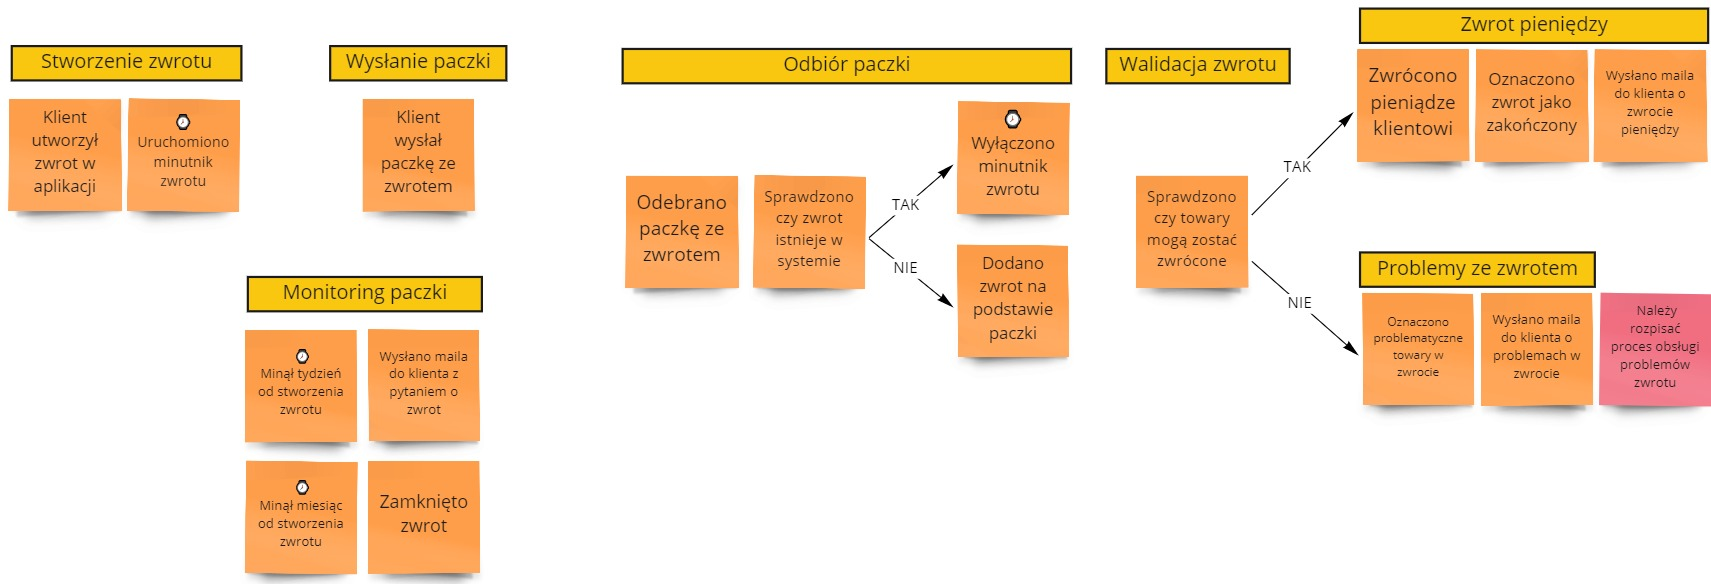
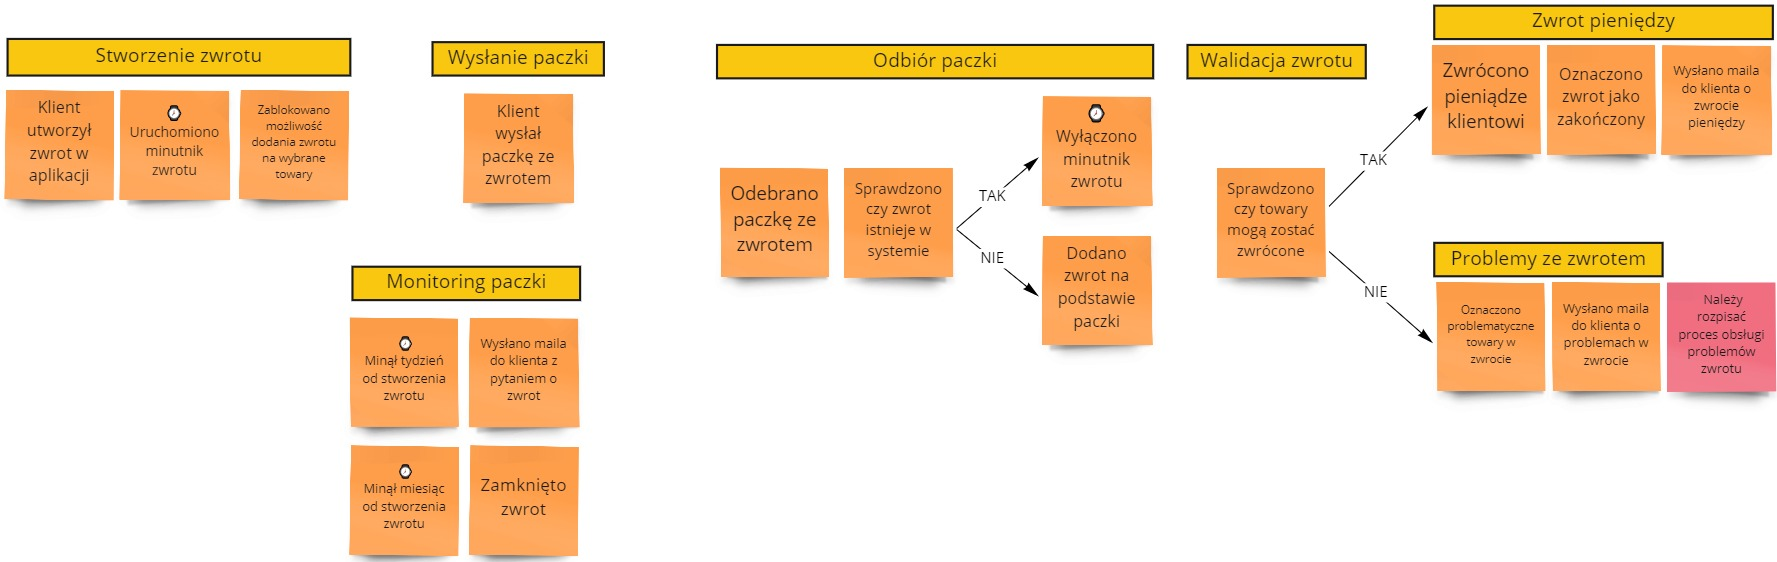
Finish post about Event Storming and questions

Changed region(s): [[0.0, 0.0, 1.0, 1.0]]

diff --git a/page/content/pl/posts/2022/2022-07/event-storming-czyli-sztuka-zadawania-pytan/index.md b/page/content/pl/posts/2022/2022-07/event-storming-czyli-sztuka-zadawania-pytan/index.md
@@ -5,14 +5,13 @@ url: '/2022/07/09/event-storming-czyli-sztuka-zadawania-pytan'
 images: ['2022/07/09/event-storming-czyli-sztuka-zadawania-pytan/main.jpg']
 description: "Event Storming to świetna technika do strukturyzowania procesów biznesowych. Jednak wymaga odpowiedniego zadawania pytań, aby osiągnąć właściwy rezultat."
 category: 'Event Storming'
-draft: true
 ---
 
 Event Storming kojarzy się przede wszystkim z pomarańczowymi karteczkami ze zdarzeniami. Rzucamy je na tablicę, aby pokazać określony proces biznesowy. Następnie układamy je wedle konkretnego schematu. Określamy kilka problemów i gotowe. Nie do końca...
 
 Taki proces nie wytrzyma zderzenia z rzeczywistością, ponieważ sesja nie pomogła nam dojść do sedna problemu. A to dlatego, że podeszliśmy do tej techniki zbyt płytko.
 
-**Jeśli podczas warsztatu nie będziemy zadawać pytań pogłębiających to stracimy 80% zysku z wykorzystywania Event Stormingu**. Tylko wtedy ta technika jest bardziej skuteczna niż zwykła analiza wykonana w Wordzie, czy na makietach. Dopiero odpowiednia wizualizacja + pytania na jej podstawie dają nam właściwy poziom analizy.
+**Jeśli podczas warsztatu nie będziemy zadawać pytań pogłębiających, to stracimy 80% zysku z wykorzystywania Event Stormingu**. Tylko wtedy ta technika jest bardziej skuteczna, niż zwykła analiza wykonana w Wordzie, czy na makietach. Dopiero odpowiednia wizualizacja + pytania na jej podstawie dają nam właściwy poziom analizy.
 
 Pokażmy sobie ten problem na podstawie zwrotu produktów do sklepu (np. do Zalando).
 
@@ -20,17 +19,17 @@ Pokażmy sobie ten problem na podstawie zwrotu produktów do sklepu (np. do Zala
 
 Załóżmy, że pracujemy z Działem Zwrotów. Po analizie z pracownikami tego działu wyszedł nam poniższy proces:
 
-[![](es-pytania-1.jpg)](es-pytania-1.jpg)
+[![](es-pytania-0.jpg)](es-pytania-0.jpg)
 
-Proces wydaje się kompletny - od utworzenia zwrotu do wysłania maila z informacją, że zwrot pieniedzy miał miejsce. 
+Proces wydaje się kompletny - od utworzenia zwrotu do wysłania maila z informacją, że zwrot pieniędzy miał miejsce.
 
-Czy powinniśmy być zadowoleni? Czy sądzicie, że jest OK?
+Czy powinniśmy być zadowoleni? Czy jest OK?
 
 [![](pulp-fiction.jpg)](pulp-fiction.jpg)
 
 (Nie mogłem się powstrzymać - ten fragment z Pulp Fiction zbyt dobrze tutaj pasował 😉) 
 
-Wszystko wydaje się proste i takie jest - dlatego, że zbyt płytko weszliśmy w proces. Jakby pójść z czymś takim na produkcję to mamy wręcz pewność, że nasz system upadnie pod atakiem rzeczywistości.
+Wszystko wydaje się proste i takie jest - dlatego, że zbyt płytko weszliśmy w proces. Jakby pójść z czymś takim na produkcję, to mamy wręcz pewność, że nasz system upadnie pod atakiem rzeczywistości.
 
 Moja reguła kciuka w tym przypadku to:
 
@@ -45,20 +44,20 @@ A więc przejdźmy po najbardziej popularnych pytaniach, które warto zadać w t
 To jest pytanie, które zadaję przechodząc przez proces po każdym zdarzeniu. W przypadku powyższego procesu możemy zapytać:
 
 > A co, jeśli klient stworzył zwrot, ale nie wysłał paczki?
-> 
+>
 > A co, jeśli klient wysłał paczkę, ale jej nie odebraliśmy?
 
 Na tej podstawie możemy dojść do następujących wniosków:
-- Nie możemy 100% określić, że klient wysłał do nas paczkę. Nawet jeśli wygenerował przesyłkę przez naszą stronę kurierem to mógł ją nadać inaczej. Musimy monitorować zwroty, aby znaleźć te rozbieżności.
-- Paczka mogła się zgubić po drodze lub zawieruszyć u dostawcy. Wtedy klient będzie zły, że nie otrzymał pieniędzy, a zrobił wszystko co powinien.
+- Nie możemy 100% określić, że klient wysłał do nas paczkę. Nawet jeśli wygenerował przesyłkę przez naszą stronę, to mógł ją nadać inaczej. Musimy monitorować zwroty, aby znaleźć rozbieżności.
+- Paczka mogła się zgubić po drodze lub zawieruszyć u dostawcy. Wtedy klient będzie zły, że nie otrzymał pieniędzy, a zrobił wszystko to, co powinien.
 
-W takim przypadku rozwiązaniem może być prosty monitoring zwrotu, który najpierw skontaktuje się z klientem. Jeśli przez kolejne 2 tygodnie nic się nie stanie, to automat zamknie zwrot. Nasza tablica ES może wtedy wyglądać następująco:
+W takim przypadku rozwiązaniem może być prosty monitoring zwrotu, który po 2 tygodniach od stworzenia zwrotu skontaktuje się z klientem. Jeśli przez kolejne 2 tygodnie nic się nie stanie, to automat zamknie zwrot. Nasza tablica ES może wtedy wyglądać następująco:
 
-[![](es-pytania-2.jpg)](es-pytania-2.jpg)
+[![](es-pytania-1.jpg)](es-pytania-1.jpg)
 
 ### Czy klient zawsze postępuje tak samo?
 
-To jest pytanie, które pozwala nam wejść w buty zewnętrznego aktora. Zastanawiamy się czy możemy z jakiegoś powodu podejść do tego procesu inaczej. W powyższym scenariuszu jest możliwa inna opcja:
+To jest pytanie, które pozwala nam wejść w buty zewnętrznego aktora. Zastanawiamy się, czy możemy z jakiegoś powodu podejść do tego procesu inaczej. W powyższym scenariuszu jest możliwa inna opcja:
 
 > Czy klient zawsze nadaje paczkę ze zwrotem po dodaniu zwrotu do systemu? 
 
@@ -68,17 +67,17 @@ Możemy odwrócić to pytanie:
 
 **Oczywiście, że może - sam tak zrobiłem 😀** 
 
-W tym przypadku, zdarzenie "Odebrano zwrot" jest nieprawidłowym zdarzeniem. My nie wiemy czy paczka ze zwrotem posiada swój odpowiednik w systemie. Jednocześnie skoro klient wysłał nam te towary to pewnie chce dokonać tego zwrotu. Wobec czego w przypadku braku zwrotu w systemie musimy go sami stworzyć:
+W tym przypadku, zdarzenie "Odebrano zwrot" jest nieprawidłowym zdarzeniem. My nie wiemy, czy paczka ze zwrotem posiada swój odpowiednik w systemie. Jednocześnie, skoro klient wysłał nam te towary, to pewnie chce dokonać tego zwrotu. Wobec czego w przypadku braku zwrotu w systemie musimy go sami stworzyć:
 
-[![](es-pytania-3.jpg)](es-pytania-3.jpg)
+[![](es-pytania-2.jpg)](es-pytania-2.jpg)
 
 ### Czy my zawsze robimy tak samo?
 
 Warto również potwierdzić, że nasze zachowanie jest zawsze takie samo. Znajdziemy wtedy dodatkowe scenariusze dla przypadków brzegowych. W procesie zwrotu może to wyglądać np.
 
-> Czy zawsze dla otrzymanego zwrotu wysyłamy pieniadze?
+> Czy zawsze dla otrzymanego zwrotu wysyłamy pieniądze?
 
-I to w 99% przypadków może być prawda, ale w tym 1% już nie 😀
+I to w 99% przypadków może być prawda, ale w 1% już nie!
 
 Zwrot, który zadeklarował klient może się różnić od tego co zostało dostarczone. Lub może być uszkodzone przez klienta. Wtedy nie możemy zwrócić pieniędzy. Wobec czego musimy to uwzględnić w naszym procesie.
 
@@ -90,11 +89,11 @@ Tego pytania używamy, aby znaleźć reguły reakcji na istotne zdarzenia w nasz
 
 > Czego klient nie może zrobić po stworzeniu zwrotu?
 
-Najprawdopodobniej nie może już utworzyć nowego zwrotu na te same towary. To mogłoby spowodować duże zamieszanie w systemie i potencjalny wielokrotny zwrot tych samych pieniedzy. Warto by mu więc ograniczyć możliwość dokonania zwrotu drugi raz.doda
+Najprawdopodobniej nie może już utworzyć nowego zwrotu na te same towary. To mogłoby spowodować duże zamieszanie w systemie i potencjalny wielokrotny zwrot tych samych pieniędzy. Warto więc ograniczyć możliwość dokonania zwrotu drugi raz.
 
 [![](es-pytania-4.jpg)](es-pytania-4.jpg)
 
-To pytanie jest bardzo skuteczne aby wyciągać niewidoczne założenia na wierzch. **Wasz biznes mógłby uważać za oczywiste, że tak się powinno stać.** Ale to co jest oczywiste dla nich, może dla nas nie być 😉
+To pytanie jest bardzo skuteczne, aby wyciągać niewidoczne założenia na wierzch. **Wasz biznes mógłby uważać za oczywiste, że tak się powinno stać.** Ale to, co jest oczywiste dla nich, może dla nas nie być 😉
 
 ### Czy podjętą decyzję można zmienić / wycofać?
 
@@ -107,7 +106,7 @@ To pytanie pomoże nam odnaleźć dodatkową warstwę w naszych procesach biznes
 Tutaj technicznie można wszystko obsłużyć. Ale biznesowo część opcji może nie mieć sensu lub wprowadzać ogromne zamieszanie. Rozmawiając z biznesem o plusach i minusach możemy dojść do wniosku, że:
 
 - Pozwalamy anulować zwrot, ale tylko do momentu wysłania paczki przez klienta / odebrania paczki w zakładzie.
-- Nie pozwalamy zmienić danego zwrotu - jeśli klient się pomylił to anuluje calość i ponawia zwrot.
+- Nie pozwalamy zmienić danego zwrotu - jeśli klient się pomylił to anuluje całość i ponawia zwrot.
 
 Wtedy nasz proces będzie wyglądać następująco:
 
@@ -117,10 +116,10 @@ Mała uwaga dotycząca stosowania tego pytania w praktyce. **Nie pozwalajcie na 
 
 ## Podsumowanie
 
-Z 6 zdarzeń i 2 procesów doszliśmy do 18 zdarzeń i 7 procesów. Jeśli wejdziemy głębiej w detale wysyłania paczki czy problemów ze zwrotem pewnie jeszcze zwiększymy ten wynik. Robi się coraz bardziej skomplikowane 😨
+Z 6 zdarzeń i 2 procesów doszliśmy do 21 zdarzeń i 8 procesów. Jeśli wejdziemy głębiej w detale wysyłania paczki, czy problemów ze zwrotem, to pewnie jeszcze bardziej zwiększymy ten wynik. Robi się coraz bardziej skomplikowane 😨
 
-Ale taki jest cel ponieważ taka jest otaczająca nas rzeczywistość. **Odpowiednia wizualizacja pozwala nam na zadawanie lepszych pytań.** Zaś lepsze pytania pozwalają nam jeszcze głębiej odkrywać złożoności naszego procesu. I lepiej go wizualizować. Mamy tutaj typowe sprzeżenie zwrotne dodanie:
+Ale taki jest cel ponieważ taka jest otaczająca nas rzeczywistość. **Wizualizacja oparta o Event Storming pozwala nam na zadawanie lepszych pytań.** Zaś lepsze pytania pozwalają nam jeszcze głębiej odkrywać złożoności naszego procesu. I lepiej go wizualizować. Mamy tutaj typowe sprzężenie zwrotne dodanie:
 
 [![](es-pytania-6.jpg)](es-pytania-6.jpg)
 
-To co jest ważne to podejście iteracyjne. Za pierwszym razem nie uda nam się znaleźć wszystkich scenariuszy. Ale nikt nie mówił, że należy tylko raz przeprowadzać sesję Event Stormingu 😀
+To, co jest ważne to podejście iteracyjne. Za pierwszym razem nie uda nam się znaleźć wszystkich scenariuszy. Ale nikt nie mówił, że należy tylko raz przeprowadzać sesję Event Stormingu 😀
